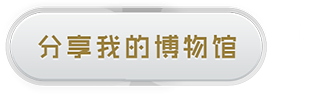
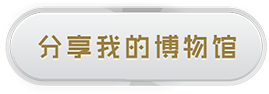
1

diff --git a/public/css/index.css b/public/css/index.css
@@ -335,8 +335,8 @@ video {
 }
 #close{
     -webkit-tap-highlight-color:rgba(0,0,0,0);
-    width: 1.495rem;
-    height: 0.605rem;
+    width: 1.045rem;
+    height: 0.425rem;
     left: 34.6vw;
     bottom: 0.91rem;
     background-image: url('/image/turn_light.png');
@@ -363,7 +363,7 @@ video {
 }
 .share_my{
     height: 0.47rem;
-    width: 1.56rem;
+    width: 1.345rem;
     left: 0.475rem;
     bottom: 0.545rem;
     background-image: url('/image/share_my.png');
@@ -373,7 +373,7 @@ video {
 }
 .change_my{
     height: 0.47rem;
-    width: 1.34rem;
+    width: 1.345rem;
     right: 0.475rem;
     bottom: 0.545rem;
     background-image: url('/image/change_my.png');
